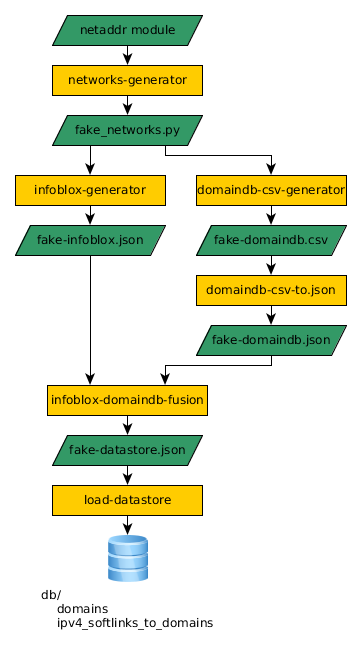
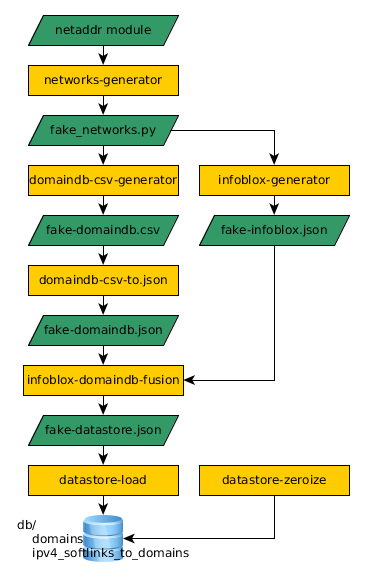
added load & zeroize features

diff --git a/fusion-infoblox-and-domaindb-in-json-datastore/nra-whois-datastore-load.py b/fusion-infoblox-and-domaindb-in-json-datastore/nra-whois-datastore-load.py
@@ -1,0 +1,161 @@
+#!/usr/bin/python
+
+'''
+
+Author: bruno.on.the.road@gmail.com
+
+About: This tool converts a predefined structured json file into 
+	the whoisd data container file structure.
+
+From:
+
+{
+    "12.0.184.128/28": {
+        "fw_info": {
+            "admin": "admin@278",
+            "model": "model@278",
+            "rack": "rack@278",
+            "version": "version@278"
+        },
+        "nra_info": {
+            "domain": "n278.some.tld",
+            "gw": "gw@278",
+            "ipv4": "12.0.184.128/28",
+            "itsm": "itsm@278",
+            "ncn": "ncn@278",
+            "vrf": "vrf@278"
+        },
+        "rs_info": {
+            "ios": "ios@278",
+            "license": "license@278",
+            "map": "map@278",
+            "vlan": "vlan@278"
+        }
+    },
+    "12.1.198.48/28": {
+        "fw_info": {
+            "admin": "admin@1051",
+            "model": "model@1051",
+            "rack": "rack@1051",
+            "version": "version@1051"
+        },
+        "nra_info": {
+            "domain": "n1051.some.tld",
+            "gw": "gw@1051",
+            "ipv4": "12.1.198.48/28",
+            "itsm": "itsm@1051",
+            "ncn": "ncn@1051",
+            "vrf": "vrf@1051"
+        },
+        "rs_info": {
+            "ios": "ios@1051",
+            "license": "license@1051",
+            "map": "map@1051",
+            "vlan": "vlan@1051"
+        }
+    },
+...
+}
+
+To: (Notice the soft links!)
+
+db
+	domains
+		n1.some.tld
+		n2.some.tld
+	ipv4
+		12.135.47.0-24 -> ../domains/n2.some.tld
+		12.139.1.0-24 -> ../domains/n1.some.tld
+
+Container content:
+
+cat db/ipv4/12.139.1.0-24
+
+[nra_info] gw         : gw@32                          
+[nra_info] domain     : n32.some.tld                   
+[nra_info] itsm       : itsm@32                        
+[nra_info] ipv4       : 12.139.1.0/24                
+[nra_info] ncn        : ncn@32                         
+[nra_info] vrf        : vrf@32                         
+
+[rs_info] map        : map@32                         
+[rs_info] vlan       : vlan@32                        
+[rs_info] ios        : ios@32                         
+[rs_info] license    : license@32                     
+
+[fw_info] admin      : admin@32                       
+[fw_info] model      : model@32                       
+[fw_info] version    : version@32                     
+[fw_info] rack       : rack@32   
+
+
+Preruiqisites:  Ensure that the /var/lib/nra-whois/db/domains/ and
+    /var/lib/nra-whois/db/ipv4/ directories exist.
+'''
+
+import json
+import os
+import sys
+
+debug = True
+#container_path_ipv4 = "/var/lib/nra-whois/db/ipv4/"
+container_path_ipv4 = "./db/ipv4/"
+#container_path_domains = "/var/lib/nra-whois/db/domains/"
+container_path_domains = "./db/domains/"
+DATASTORE = "./nra-whois-fake-datastore.json"
+'''
+try:
+    sys.argv[1]
+except IndexError:
+    print("Provide /path/to/your/json-file here!")
+    sys.exit(5)
+else:
+    try:
+        file =  open(sys.argv[1], "r")
+    except IOError:
+        print("File not found!")
+        sys.exit(6)
+'''
+
+jf = open(DATASTORE, "r")
+datastore = json.load(jf)
+
+'''
+Only looping and printng thru the datastore here
+
+for ipv4 in datastore:
+    print(ipv4)
+    for source in datastore[ipv4]:
+        print("")
+        for entry in datastore[ipv4][source]:
+            print "[", source, "]",entry, " : ", datastore[ipv4][source][entry]
+    print("")
+'''
+
+for ipv4 in datastore:
+    try:
+        container_filename_domains = datastore[ipv4]['nra_info']['DNS']
+        print(container_filename_domains)
+        if (debug) :
+            print ('[*] Reading: ' + ipv4 + ' container')
+        #Create filename based on ipv4 address
+        if (debug) :
+            print ('[**] Writing: ' + container_filename_domains + ' file to disk')    
+        with open(container_path_domains + container_filename_domains, "w+") as c:
+            for source in datastore[ipv4]:
+                if (debug):
+                    print ('[***] Reading: ' + source)
+                for entry in datastore[ipv4][source]:
+                    if (debug):
+                        print ('[****] Reading / Writing : ' + entry + ' to file')
+                    c.write('[%-5s] %-20s : %-30s \n'  % (source, entry, datastore[ipv4][source][entry]))
+                c.write('\n')
+        #Create symlink ipv4 -> domain       
+        container_filename_ipv4 = ipv4.replace("/","-")
+        if (debug) :
+            print ('[*****] Writing: ' + container_filename_ipv4 + ' symlink to disk')
+        os.symlink('../domains/' + container_filename_domains, container_path_ipv4 + container_filename_ipv4)
+    except:
+        print("Oops! Something is broken in the writing process.")
+        sys.exit(7) 
+print('Done!')

diff --git a/fusion-infoblox-and-domaindb-in-json-datastore/nra-whois-datastore-zeroize.py b/fusion-infoblox-and-domaindb-in-json-datastore/nra-whois-datastore-zeroize.py
@@ -1,0 +1,23 @@
+#!/usr/bin/python
+
+#Reference: https://stackoverflow.com/questions/185936/how-to-delete-the-contents-of-a-folder-in-python
+
+import os, shutil
+
+
+IPDB = "./db/ipv4/"
+DOMAINDB = "./db/domains/"
+debug = True
+
+folders = [IPDB, DOMAINDB]
+for folder in folders:
+    for the_file in os.listdir(folder):
+        file_path = os.path.join(folder, the_file)
+        try:
+            if os.path.isfile(file_path):
+                os.unlink(file_path)
+                if (debug):
+                    print('[*] container ' + the_file + ' zeroised')
+            #elif os.path.isdir(file_path): shutil.rmtree(file_path)
+        except Exception as e:
+            print(e)

diff --git a/fusion-infoblox-and-domaindb-in-json-datastore/nra_whois_fake_networks.py b/fusion-infoblox-and-domaindb-in-json-datastore/nra_whois_fake_networks.py
@@ -1,2 +1,2 @@
-ib_networks = ['18.0.141.144/28', '18.0.68.112/28', '18.0.176.96/28', '18.0.141.224/28', '18.0.94.208/28']
-dd_networks = ['18.0.141.144/28']
+ib_networks = ['19.0.150.32/28', '19.0.26.48/28', '19.0.24.208/28', '19.0.93.16/28', '19.0.81.240/28', '19.0.43.144/28', '19.0.48.64/28', '19.0.187.0/28', '19.0.62.0/28', '19.0.86.16/28']
+dd_networks = ['19.0.43.144/28', '19.0.48.64/28', '19.0.86.16/28', '19.0.26.48/28', '19.0.187.0/28', '19.0.93.16/28', '19.0.24.208/28', '19.0.81.240/28', '19.0.62.0/28', '19.0.150.32/28']

diff --git a/fusion-infoblox-and-domaindb-in-json-datastore/nra-whois-networks-generator.py b/fusion-infoblox-and-domaindb-in-json-datastore/nra-whois-networks-generator.py
@@ -10,10 +10,10 @@ debug = False
 
 NETWORKS_FILE = "nra_whois_fake_networks.py"
 #Infoblox networks
-IB_NETWORKS_NEEDED = 5
+IB_NETWORKS_NEEDED = 10
 #Domain database networks
-DD_NETWORKS_NEEDED = 1
-IPV4_ADDRESS_BASE = "18.0.0.0/16"
+DD_NETWORKS_NEEDED = 10
+IPV4_ADDRESS_BASE = "19.0.0.0/16"
 IPV4_ADDRESS_BLOCKS = 28
 
 def generate_all_networks():
